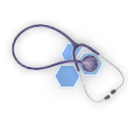
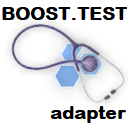
Preparing for publishing

Changed region(s): [[0.0, 0.0312, 0.5938, 0.1562], [0.375, 0.8125, 1.0, 0.9688], [0.5938, 0.0312, 1.0, 0.1562]]

diff --git a/src/config.ts b/src/config.ts
@@ -3,6 +3,18 @@ import * as logger from './logger';
 import * as util from './util';
 import { resolve } from 'path';
 
+//
+// IMPORTANT: Use the same name in package.json!
+//
+// The configuration name is "boost-test-adapter-vN" where
+// the trailing "N" is the major version number of this extension.
+//
+// It follow semantic versioning. So, if you modify the extension
+// configuration in a backwards incompatible way then use N+1 here
+// also.
+//
+export const BoosTestAdapterConfig = "boost-test-adapter-v3";
+
 export interface TestEnvvar {
     name: string;
     value: string;
@@ -25,10 +37,10 @@ export function getConfig(workspaceFolder: vscode.WorkspaceFolder, log: logger.M
         testExes: []
     };
 
-    const cfg = vscode.workspace.getConfiguration('boost-test-adapter');
+    const cfg = vscode.workspace.getConfiguration(BoosTestAdapterConfig);
 
     if (!cfg.has('tests')) {
-        log.warn(`No boost-test-adapter.tests found.`);
+        log.warn(`Settings: No ${BoosTestAdapterConfig}.tests found.`);
         return testConfig;
     }
     const cfgTests = cfg.get<Record<string, any>[]>('tests');

diff --git a/src/main.ts b/src/main.ts
@@ -5,10 +5,8 @@ import { BoostTestAdapter } from './adapter';
 import * as logger from './logger';
 
 export async function activate(context: vscode.ExtensionContext) {
-    // init adaptor logging
-    //const ws = (vscode.workspace.workspaceFolders || [])[0];
     const log = new logger.MyLogger('Boost.Test Adapter');
-    //const log = new Log('boost-test-adapter', ws, 'Boost.Test Explorer');
+    log.info("Extension activated");
 
     context.subscriptions.push(log);
 

diff --git a/README.md b/README.md
@@ -22,7 +22,7 @@ using the [Test Explorer UI](https://marketplace.visualstudio.com/items?itemName
 
 ## Configurations
 ```json
-    "boost-test-adapter.tests": [
+    "boost-test-adapter-v3.tests": [
         {
             // Mandatory: Path to a test executable. May be absolute or relative path.
             "testExecutable": "build\\Debug\\main_test_1.exe",
@@ -46,11 +46,3 @@ using the [Test Explorer UI](https://marketplace.visualstudio.com/items?itemName
 
 ## Features that not implemented yet
 - When debugging a test, the red/green status of the test is not updated in the test explorer
-
-# Development
-
-- Fetch npm dependencies: `npm update`
-- Build the code: `npm run-script build`
-- Run and debug: Start the `Boost.Test Explorer` launch configuration in VS Code.
-- Create a vsix package for testing: `vsce package`
-- Publishing: https://code.visualstudio.com/api/working-with-extensions/publishing-extension

diff --git a/README.development.md b/README.development.md
@@ -1,0 +1,17 @@
+# Development
+
+- Fetch npm dependencies: `npm update`
+- Build the code: `npm run-script build`
+- Run and debug: Start the `Boost.Test Explorer` launch configuration in VS Code.
+- Create a vsix package for testing: `vsce package`
+- Publishing: https://code.visualstudio.com/api/working-with-extensions/publishing-extension
+
+# Versioning
+
+We follow semantic versioning. So, if you modify the extension
+in a backwards incompatible way then increment the major version
+number.
+
+**IMPORTANT!**
+If the major number changes from `A` to `B` then search and replace every occurence
+of `boos-test-adapter-vA` with `boos-test-adapter-vB`!
